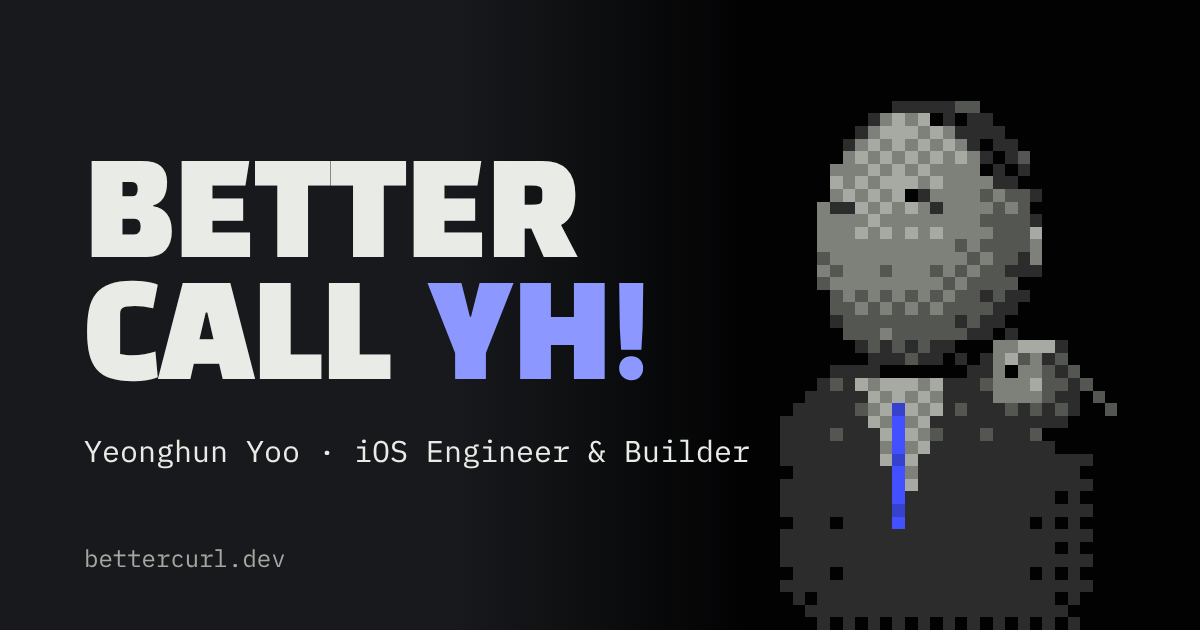
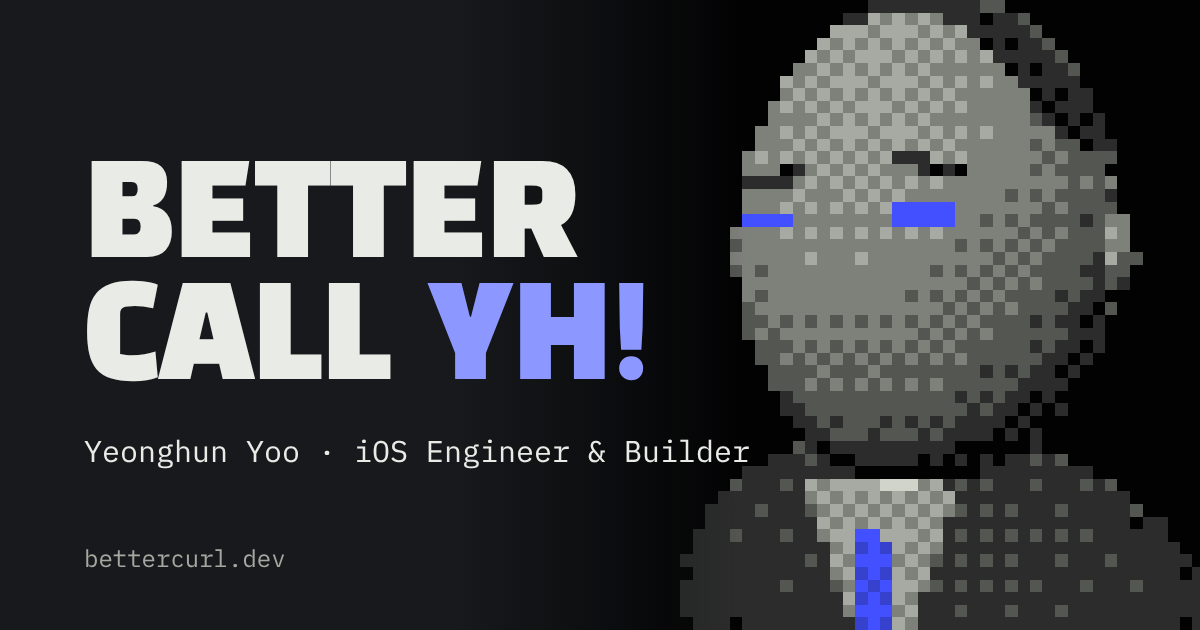
feat(site): 임시 흉상 — 기계 같은 발광 눈, 코·손 제거, 가슴 위 프레이밍 / OG·포스터 다시 생성
Claude-Session: https://claude.ai/code/session_01CwZp3eupt9mvHr39AaBxx8

Changed region(s): [[0.555, 0.0, 1.0, 1.0]]

diff --git a/apps/site/src/lib/hero/scene.js b/apps/site/src/lib/hero/scene.js
@@ -32,13 +32,13 @@ export const FACE = -35;
  */
 const SHOTS = [
   [ // 1스텝
-    { t: 0, at: 'head', az: 0, el: 8, r: 9, fov: 35, roll: 0, pitch: 0 },
+    { t: 0, at: 'head', az: 0, el: 8, r: 6.5, fov: 35, roll: 0, pitch: 0 },
     { t: 0.3, at: 'head', az: -80, el: 5, r: 4.8, fov: 34, roll: -9, pitch: 4 },
     { t: 1, at: 'eyeR', az: 8, el: 2, r: 0.6, fov: 30, roll: 7, pitch: -3 },
   ],
   [ // 2스텝
     { t: 0, at: 'eyeL', az: 12, el: 2, r: 0.5, fov: 30, roll: -8, pitch: 3 },
-    { t: 1, at: 'bust', az: -15, el: 4, r: 7.5, fov: 32, roll: 0, pitch: 0 },
+    { t: 1, at: 'bust', az: -15, el: 4, r: 4.4, fov: 32, roll: 0, pitch: 0 },
   ],
 ];
 
@@ -70,7 +70,7 @@ export function cameraAt(p, points) {
  */
 const POINTS = {
   head: [0, 1.6, 0],
-  bust: [0, 1.15, 0],
+  bust: [0, 1.35, 0], // 가슴 위가 화면에 들어오는 높이(11/05)
   eyeR: [-0.26, 1.72, 0.74],
   eyeL: [0.26, 1.72, 0.74],
 };
@@ -182,9 +182,6 @@ function placeholderBust(accentMat) {
   cap.scale.copy(head.scale);
   cap.position.set(0, 1.66, -0.04);
   cap.rotation.x = -0.25;
-  const nose = new THREE.Mesh(new THREE.ConeGeometry(0.11, 0.3, 16), skin);
-  nose.rotation.x = Math.PI / 2;
-  nose.position.set(0, 1.55, 0.86);
   const earL = new THREE.Mesh(new THREE.SphereGeometry(0.16, 16, 12), skin);
   earL.scale.set(0.5, 1, 0.8);
   earL.position.set(-0.74, 1.58, 0);
@@ -196,9 +193,10 @@ function placeholderBust(accentMat) {
   const brow2 = brow.clone();
   brow2.position.set(0.26, 1.9, 0.74);
   brow2.rotation.z = -0.32; // 한쪽 눈썹만 올린 표정
-  const eyeMat = new THREE.MeshStandardMaterial({ color: 0x111111, roughness: 0.3 });
-  const eyeL = new THREE.Mesh(new THREE.SphereGeometry(0.075, 20, 14), eyeMat);
-  eyeL.position.set(-0.26, 1.72, 0.7);
+  // 눈(11/05 임시): 기계처럼 — 가로로 긴 발광 슬릿. 마젠타 표식 재질이라 화면에서는 강조색으로 빛난다
+  const eyeMat = new THREE.MeshStandardMaterial({ color: 0xff00ff, emissive: 0xff00ff, emissiveIntensity: 1, roughness: 0.3 });
+  const eyeL = new THREE.Mesh(new THREE.BoxGeometry(0.24, 0.07, 0.06), eyeMat);
+  eyeL.position.set(-0.26, 1.72, 0.78); // 머리 표면(타원체) 바로 바깥
   const eyeR = eyeL.clone();
   eyeR.position.x = 0.26;
   const neck = new THREE.Mesh(new THREE.CylinderGeometry(0.3, 0.36, 0.55, 24), skin);
@@ -212,17 +210,8 @@ function placeholderBust(accentMat) {
   front.position.set(0, 0.32, 0.5);
   const tie = new THREE.Mesh(new THREE.BoxGeometry(0.13, 0.78, 0.05), accentMat);
   tie.position.set(0, 0.2, 0.56);
-  // 가리키는 손: 주먹 + 검지(카메라 쪽)
-  const fist = new THREE.Mesh(new THREE.BoxGeometry(0.3, 0.32, 0.3), skin);
-  fist.position.set(0.95, 0.9, 0.9);
-  fist.rotation.y = -0.3;
-  const finger = new THREE.Mesh(new THREE.CapsuleGeometry(0.055, 0.32, 4, 12), skin);
-  finger.rotation.x = Math.PI / 2;
-  finger.position.set(0.9, 0.98, 1.2);
-  const sleeve = new THREE.Mesh(new THREE.CylinderGeometry(0.2, 0.24, 0.8, 16), suit);
-  sleeve.rotation.x = Math.PI / 2.6;
-  sleeve.position.set(1.05, 0.62, 0.45);
-  g.add(head, cap, nose, earL, earR, brow, brow2, eyeL, eyeR, neck, torso, front, tie, fist, finger, sleeve);
+  // 11/05: 코·손은 뺐다(입처럼 읽혀서, 손은 안 보이게). 가슴 위로만 화면에 들어오게 카메라를 맞춘다(SHOTS)
+  g.add(head, cap, earL, earR, brow, brow2, eyeL, eyeR, neck, torso, front, tie);
   return g;
 }
 

diff --git a/apps/site/docs/guides/3d-hero.md b/apps/site/docs/guides/3d-hero.md
@@ -4,6 +4,8 @@
 
 **11/05 사이트 홈에 반영·배포(decisions S-009, 모델은 임시 흉상).** 프로토타입: claude.ai 아티팩트 "Better Call YH 3D". 장면 코드는 `src/lib/hero/scene.js` 하나를 사이트·프레임 렌더·프로토타입이 같이 쓴다.
 
+**임시 흉상(11/05 수정)**: 눈은 기계처럼 가로로 긴 발광 슬릿(마젠타 표식 → 화면에서 강조색), 코·가리키는 손은 뺐다(코가 입처럼 읽혀서, 손은 안 보이게). 카메라는 가슴 위만 들어오게(시작 거리 9 → 6.5, 마지막 상반신 대상 y 1.15 → 1.35·거리 7.5 → 4.4). 스캔 모델로 바꾸면 이 흉상은 쓰이지 않는다
+
 ## 흐름
 
 ```
